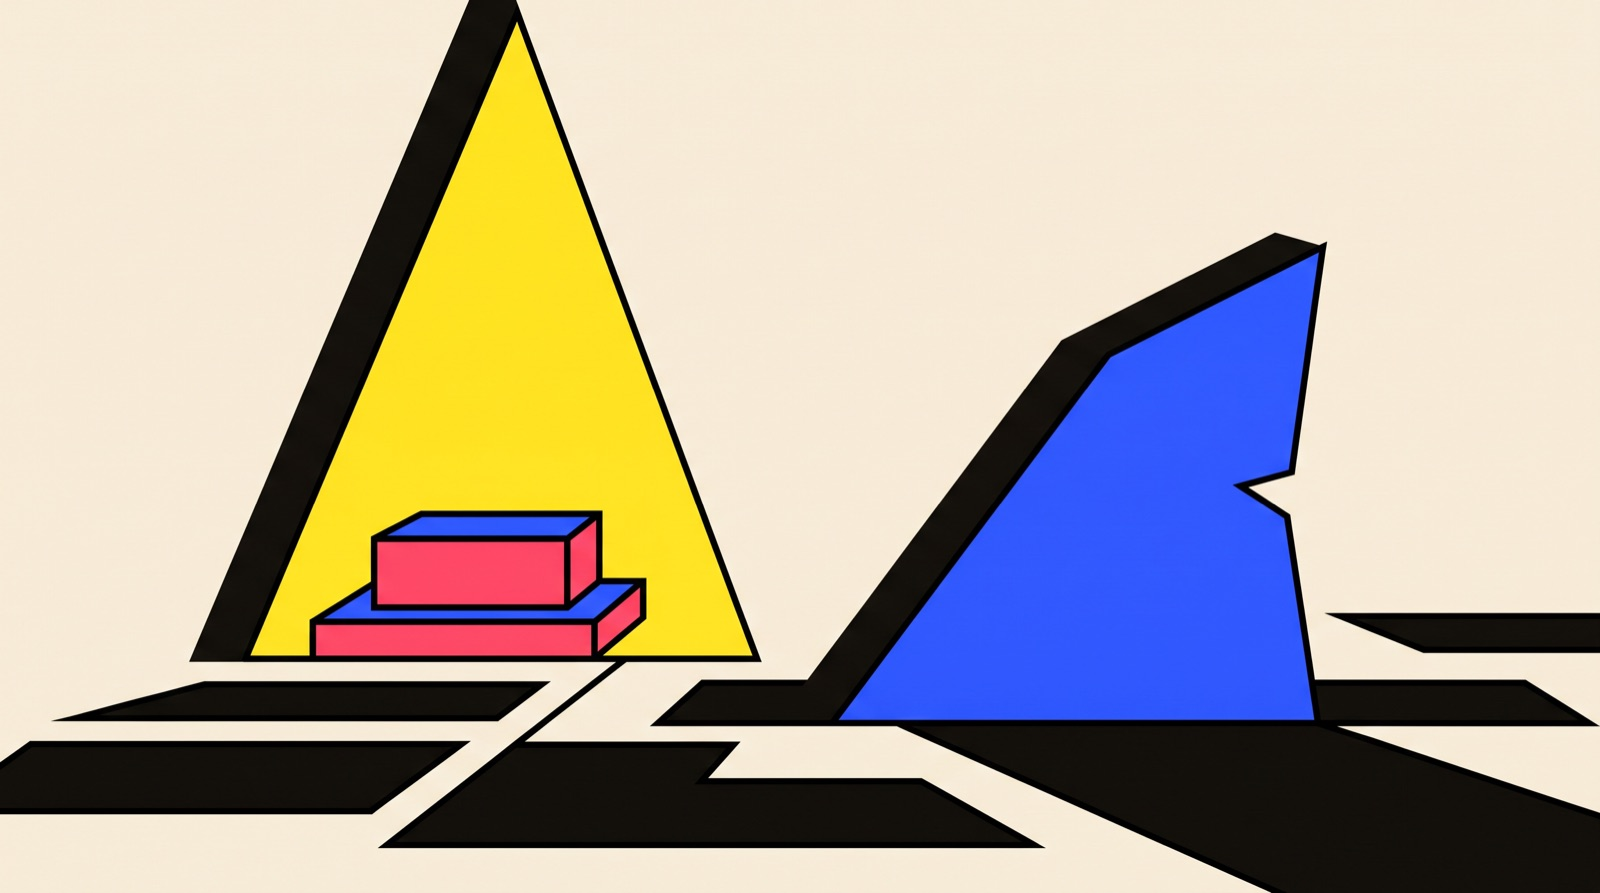
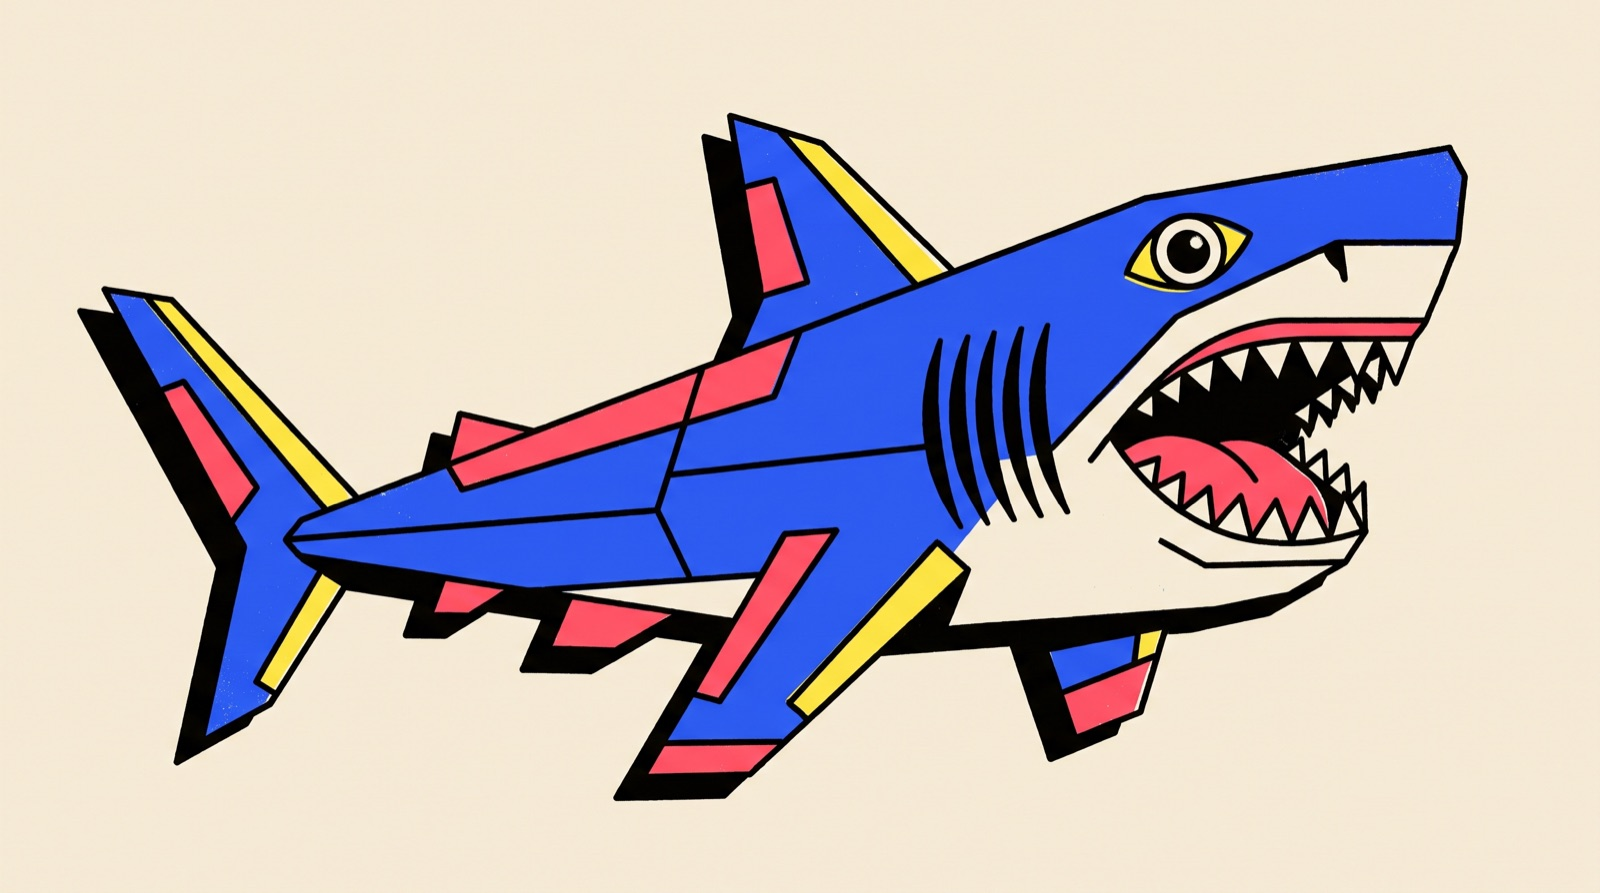
Swap Verslo rykliai hero to full shark; add opt-in hero float animation
Replace the abstract fin+podium hero (read as iceberg triangles) with a
clear full shark illustration. Add opt-in hero.animate: gentle 5s
vertical float via a new hero-float keyframe (respects
prefers-reduced-motion globally). Enabled only on Verslo rykliai as a
test.

diff --git a/src/app/globals.css b/src/app/globals.css
@@ -70,6 +70,15 @@ body {
     transform: translate3d(-50%, 0, 0);
   }
 }
+@keyframes hero-float {
+  0%,
+  100% {
+    transform: translateY(0);
+  }
+  50% {
+    transform: translateY(-10px);
+  }
+}
 @keyframes floaty {
   0%,
   100% {

diff --git a/src/components/ArticleView.tsx b/src/components/ArticleView.tsx
@@ -268,7 +268,14 @@ export function ArticleView({
               ` · ${t.updated} ${formatDate(article.updatedAt, route.locale)}`}
           </p>
           {article.hero && (
-            <div className="avb relative mt-10 aspect-[16/9] overflow-hidden bg-paper">
+            <div
+              className="avb relative mt-10 aspect-[16/9] overflow-hidden bg-paper"
+              style={
+                article.hero.animate
+                  ? { animation: "hero-float 5s ease-in-out infinite" }
+                  : undefined
+              }
+            >
               <Image
                 src={article.hero.src}
                 alt={article.hero.alt}

diff --git a/src/content/lt/verslo-rykliai.ts b/src/content/lt/verslo-rykliai.ts
@@ -9,7 +9,8 @@ export const versloRykliai: Article = {
   lede: "Stovėjau prieš keturis ryklius tiesioginėje laidoje ir pristatinėjau Callsy. Gavau validaciją iš vienaragių kūrėjų, bet sandorio negavau. Štai kas iš tikrųjų vyksta Verslo rykliuose, ko kamera neparodo ir ką iš to išmokau.",
   hero: {
     src: "/images/insights/verslo-rykliai.jpg",
-    alt: "Iliustracija: ryklio pelekas ir prožektoriaus apšviesta pakyla",
+    alt: "Iliustracija: ryžtingas geometrinis ryklys, simbolizuojantis Verslo ryklius",
+    animate: true,
   },
   blocks: [
     {

diff --git a/src/content/types.ts b/src/content/types.ts
@@ -43,7 +43,7 @@ export interface Article {
   /** Opening paragraph, also used on hub cards. */
   lede: string;
   /** Optional hero illustration. Also used as the article's OG/share image. */
-  hero?: { src: string; alt: string };
+  hero?: { src: string; alt: string; animate?: boolean };
   blocks: Block[];
   /** Route keys of related pages for the internal-links footer. */
   related?: string[];